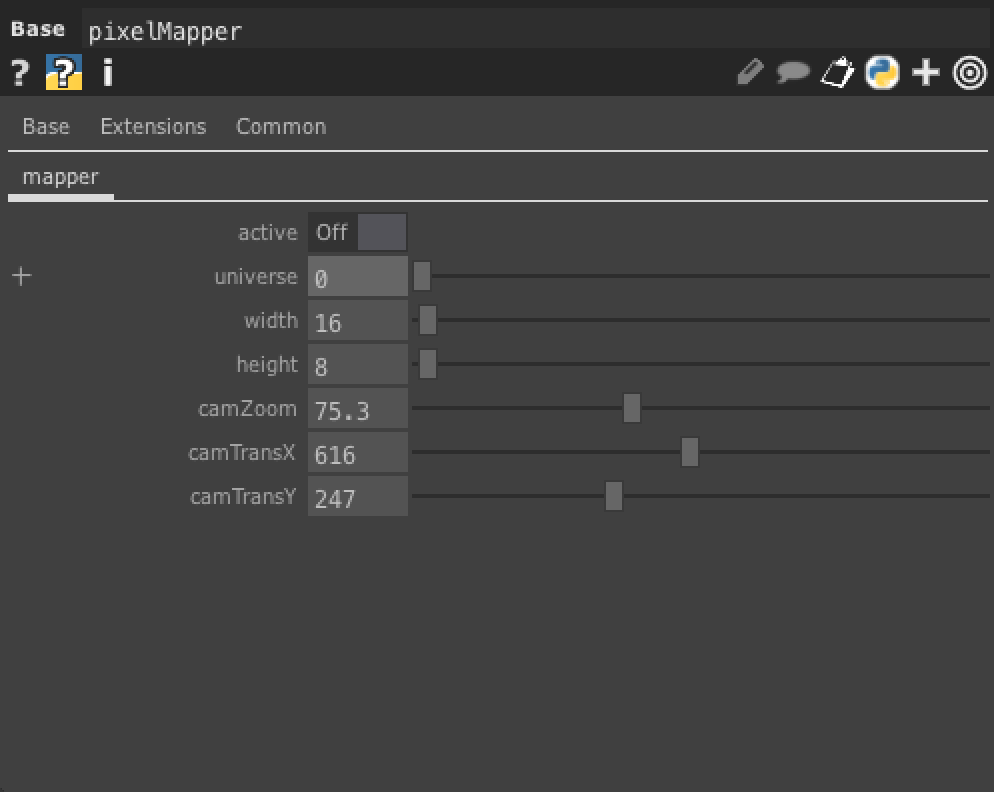
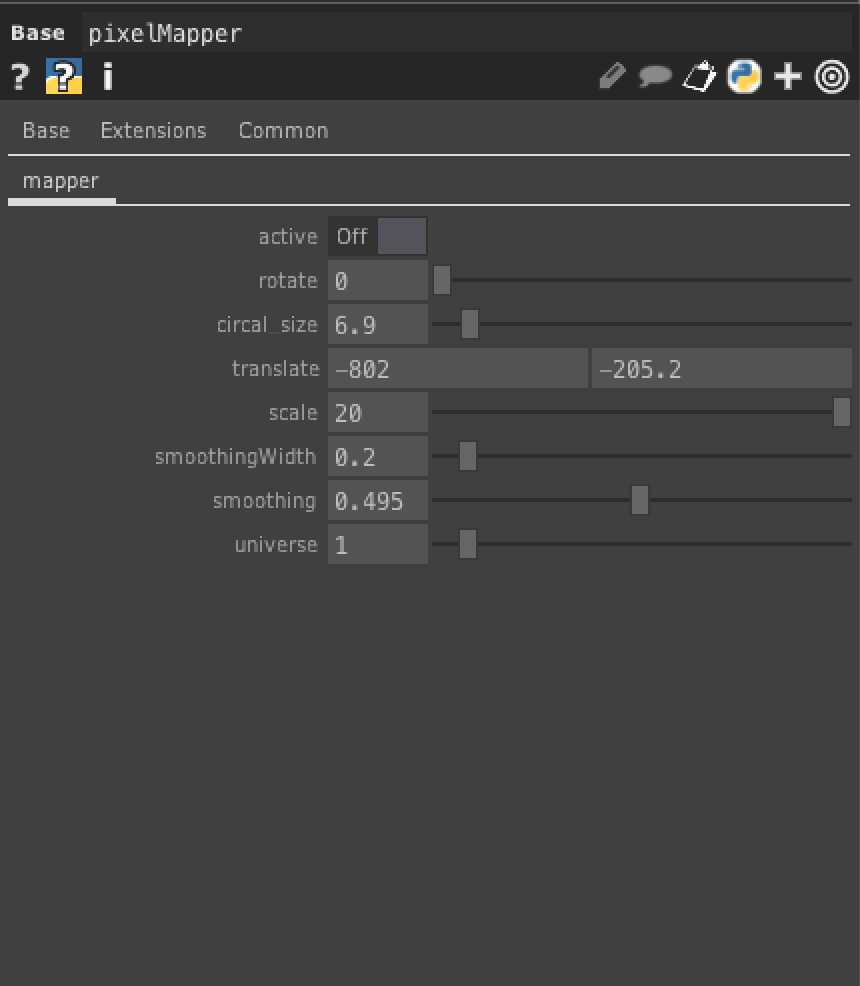
images and notes

diff --git a/tutorials/td_dmx.md b/tutorials/td_dmx.md
@@ -101,12 +101,13 @@ style="max-width: 600px;"
 />
 
 `active` - this turns the active sending of DMX on and off
-`universe` - this is the DMX universe that we want to use (more on this later)
-`width` - total width of input geometry
-`height` - total height of input geometry
-`camZoom`, `camTransX`, `camTransY` - move the preview camera around to see everything. these do not affect the LED mappings.
 
-The most important parameters here are `width` and `height`. For these, enter the total height and total width of geometry that you've imported.
+`universe` - this is the DMX universe that we want to use (more on this later)
+
+`scale`, `rotate`, `translate` - allow you to move your pixel points over your input video to get the correct mapping
+
+`smoothing` parameters - allows you to smooth the signal, so you don't get much of the jitters that come with video-LED processes
+
 
 
 ## Setting up the PixLite Controller
